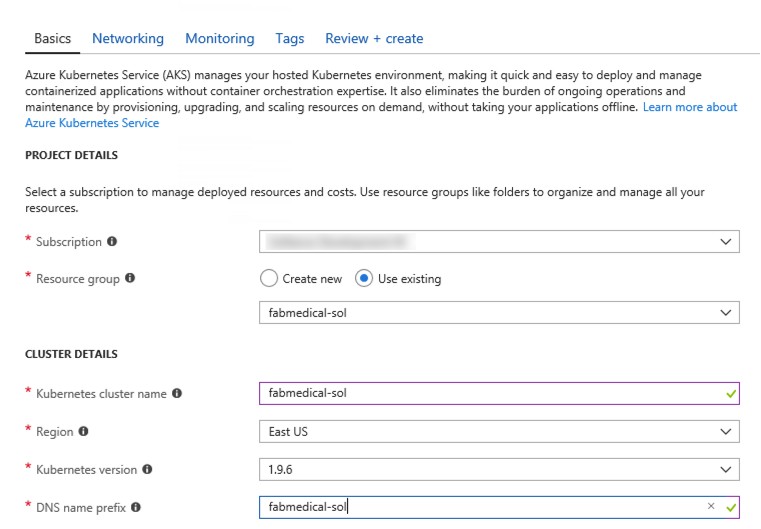
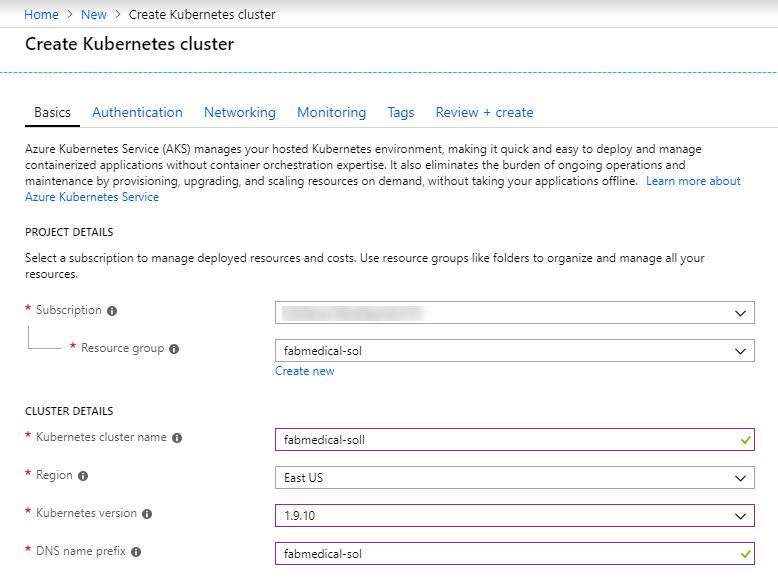
Update Docs with latest screen shots

diff --git a/Hands-on lab/Before the HOL - Containers and DevOps.md b/Hands-on lab/Before the HOL - Containers and DevOps.md
@@ -127,9 +127,17 @@ In this section, you will create a Windows 10 VM to act as your development mach
 
 3.  On the Basics blade of the Virtual Machine setup, set the following:
 
+    -   **Subscription**: Choose the same subscription you are using for all your work.
+
+    -   **Resource group**: Choose Use existing and select the resource group you created previously.
+
     -   **Name**: Provide a unique name, such as "fabmedicald-SUFFIX" as shown in the following screenshot.
 
-    -   **VM disk type**: Leave as SSD.
+    -   **Region**: Choose the same region that you did before.
+
+    -   **Image**: Leave as default "Windows 10 Pro N, Version 1709"
+
+    -   **Size**: Leave as default "Standard DS2_V2"
 
     -   **User name**: Provide a user name, such as "adminfabmedical".
 
@@ -137,25 +145,25 @@ In this section, you will create a Windows 10 VM to act as your development mach
 
     -   **Confirm password**: Confirm the previously entered password.
 
-    -   **Subscription**: Choose the same subscription you are using for all your work.
+    -   Select **Next-Disks** to move to the next step.
 
-    -   **Resource group**: Choose Use existing and select the resource group you created previously.
+    ![In the Basics blade, the values listed above appear in the corresponding boxes. The suffix after the fabmedicald- value is obscured in the Name box and the Resource group box, as is the value for the Subscription box.](media/vm-basic-create-screen.png)
 
-    -   **Location**: Choose the same region that you did before.
+4.  From the Disks screen, choose OS disk type "Standard SSD" and select  **Next : Networking**.
 
-    -   Select **OK** to complete the Basics blade.
+    ![This is a screenshot of the vm disks screen to choose the OS disk type.](media/vm-basic-create-disks-screen.png)
 
-    ![In the Basics blade, the values listed above appear in the corresponding boxes. The suffix after the fabmedicald- value is obscured in the Name box and the Resource group box, as is the value for the Subscription box.](media/b4-image10.png)
+5.  From the Networking screen, leave everything as except the following:
+    -   **Public inbound ports**: Select Allow selected ports
+    -   **Select inbound ports**: Select RDP
+    -   Select **Review + create**.
 
-4.  From the Size blade search for "DS2_v2", choose **D2S\_V2 Standard** and **Select**.
+    ![This is a screenshot of the network settings for the vm to configure the ports to be allowed in.](media/vm-basic-create-network-screen.png)
 
-    !["DS2_v2" is entered in the Search box.  There is one result shown and it is selected.](media/b4-image11.png)
 
-5.  From the Settings blade, accept the default values for all settings and select **OK**.
+6.  From the Create screen, you should see that validation passed and select **Create**.
 
-6.  From the Create blade, you should see that validation passed and select **Create**.
-
-    ![This is a screenshot of the Create blade indicating that validation passed. Offer details are also visible.](media/b4-image12.png)
+    ![This is a screenshot of the Create blade indicating that validation passed. Offer details are also visible.](media/vm-basic-create-review-screen.png)
 
 7.  The VM will begin deployment to your Azure subscription.
 
@@ -226,10 +234,18 @@ In this section, you will create a Linux VM to act as your build agent. You will
 2. Select **Ubuntu Server 16.04 LTS** and select **Create**.
 
 3. On the Basics blade of the Virtual Machine setup, set the following:
+   
+    -   **Subscription**: Choose the same subscription you are using for all your work.
+
+    -   **Resource group**: Choose Use existing and select the resource group you created previously.
 
     -   **Name**: Provide a unique name, such as "fabmedical-SUFFIX" as shown in the following screenshot.
 
-    -   **VM disk type**: Leave as SSD.
+    -   **Region**: Choose the same region that you did before.
+
+    -   **Image**: Leave as "Ubuntu Server 16.04 LTS".
+
+    -   **Size**: Leave as "Standard D2s v3"
 
     -   **User name**: Provide a user name, such as "adminfabmedical".
 
@@ -261,27 +277,21 @@ In this section, you will create a Linux VM to act as your build agent. You will
 
     -   **Login with Azure Active Directory**: Leave disabled.
 
-    -   **Subscription**: Choose the same subscription you are using for all your work.
+    -   Select **Next : Disks** to move to the next step.
 
-    -   **Resource group**: Choose Use existing and select the resource group you created previously.
+    ![In the Basics blade, the values listed above appear in the corresponding boxes. The public key that you copied is pasted in the SSH public key box.](media/vm-basic-ubuntu-create-screen.png)
 
-    -   **Location**: Choose the same region that you did before.
+4. From the Disk screen select Standard SSD and then **Next : Netwroking**.
 
-    -   Select **OK** to complete the Basics blade.
+    !["From the list select Standard SSD for the OS disk type.](media/vm-basic-create-disks-ubuntu-screen.png)
 
-    ![In the Basics blade, the values listed above appear in the corresponding boxes. The public key that you copied is pasted in the SSH public key box.](media/b4-image21.png)
+5. From the Networking screen, accept the default values for most settings and select "SSH (22)" as a public inbound port, then select **Review + create**.
 
-4. From the Size blade search for "D2S_v3" and **Select**.
-
-    !["D2S_v3" is entered in the Search box.  There is one result shown and it is selected.](media/b4-image22.png)
-
-5. From the Settings blade, accept the default values for most settings and select "SSH (22)" as a public inbound port, then select **OK**.
-
-    ![This is the screenshot of the Settings blade with SSH selected as a public inbound port.](media/b4-image22a.png)
+    ![This is the screenshot of the Networking screen with SSH selected as a public inbound port.](media/vm-basic-create-network-ubuntu-screen.png)
 
 6. From the Create blade, you should see that validation passed and select **Create**.
 
-    ![This is a screenshot of the Create blade indicating that validation passed. Offer details are also visible.](media/b4-image23.png)
+    ![This is a screenshot of the Create blade indicating that validation passed. Offer details are also visible.](media/vm-basic-create-review-ubuntu-screen.png)
 
 7. The VM will begin deployment to your Azure subscription.
 
@@ -521,7 +531,7 @@ In this task, you will create your Azure Kubernetes Service cluster. You will us
     * **Resource group**: Select the resource group you have been using through the lab.
     * **Name**: Enter fabmedical-SUFFIX.
     * **Region**: Choose the same region as the resource group.
-    * **Kubernetes version**: 1.9.6.
+    * **Kubernetes version**: 1.9.10.
     * **DNS Prefix**: Enter fabmedical-SUFFIX.
 
         ![Basics is selected in the Create Azure Kubernetes Service blade, and the values listed above appear in the corresponding boxes in the Basics blade on the right.](media/b4-image41.png)
